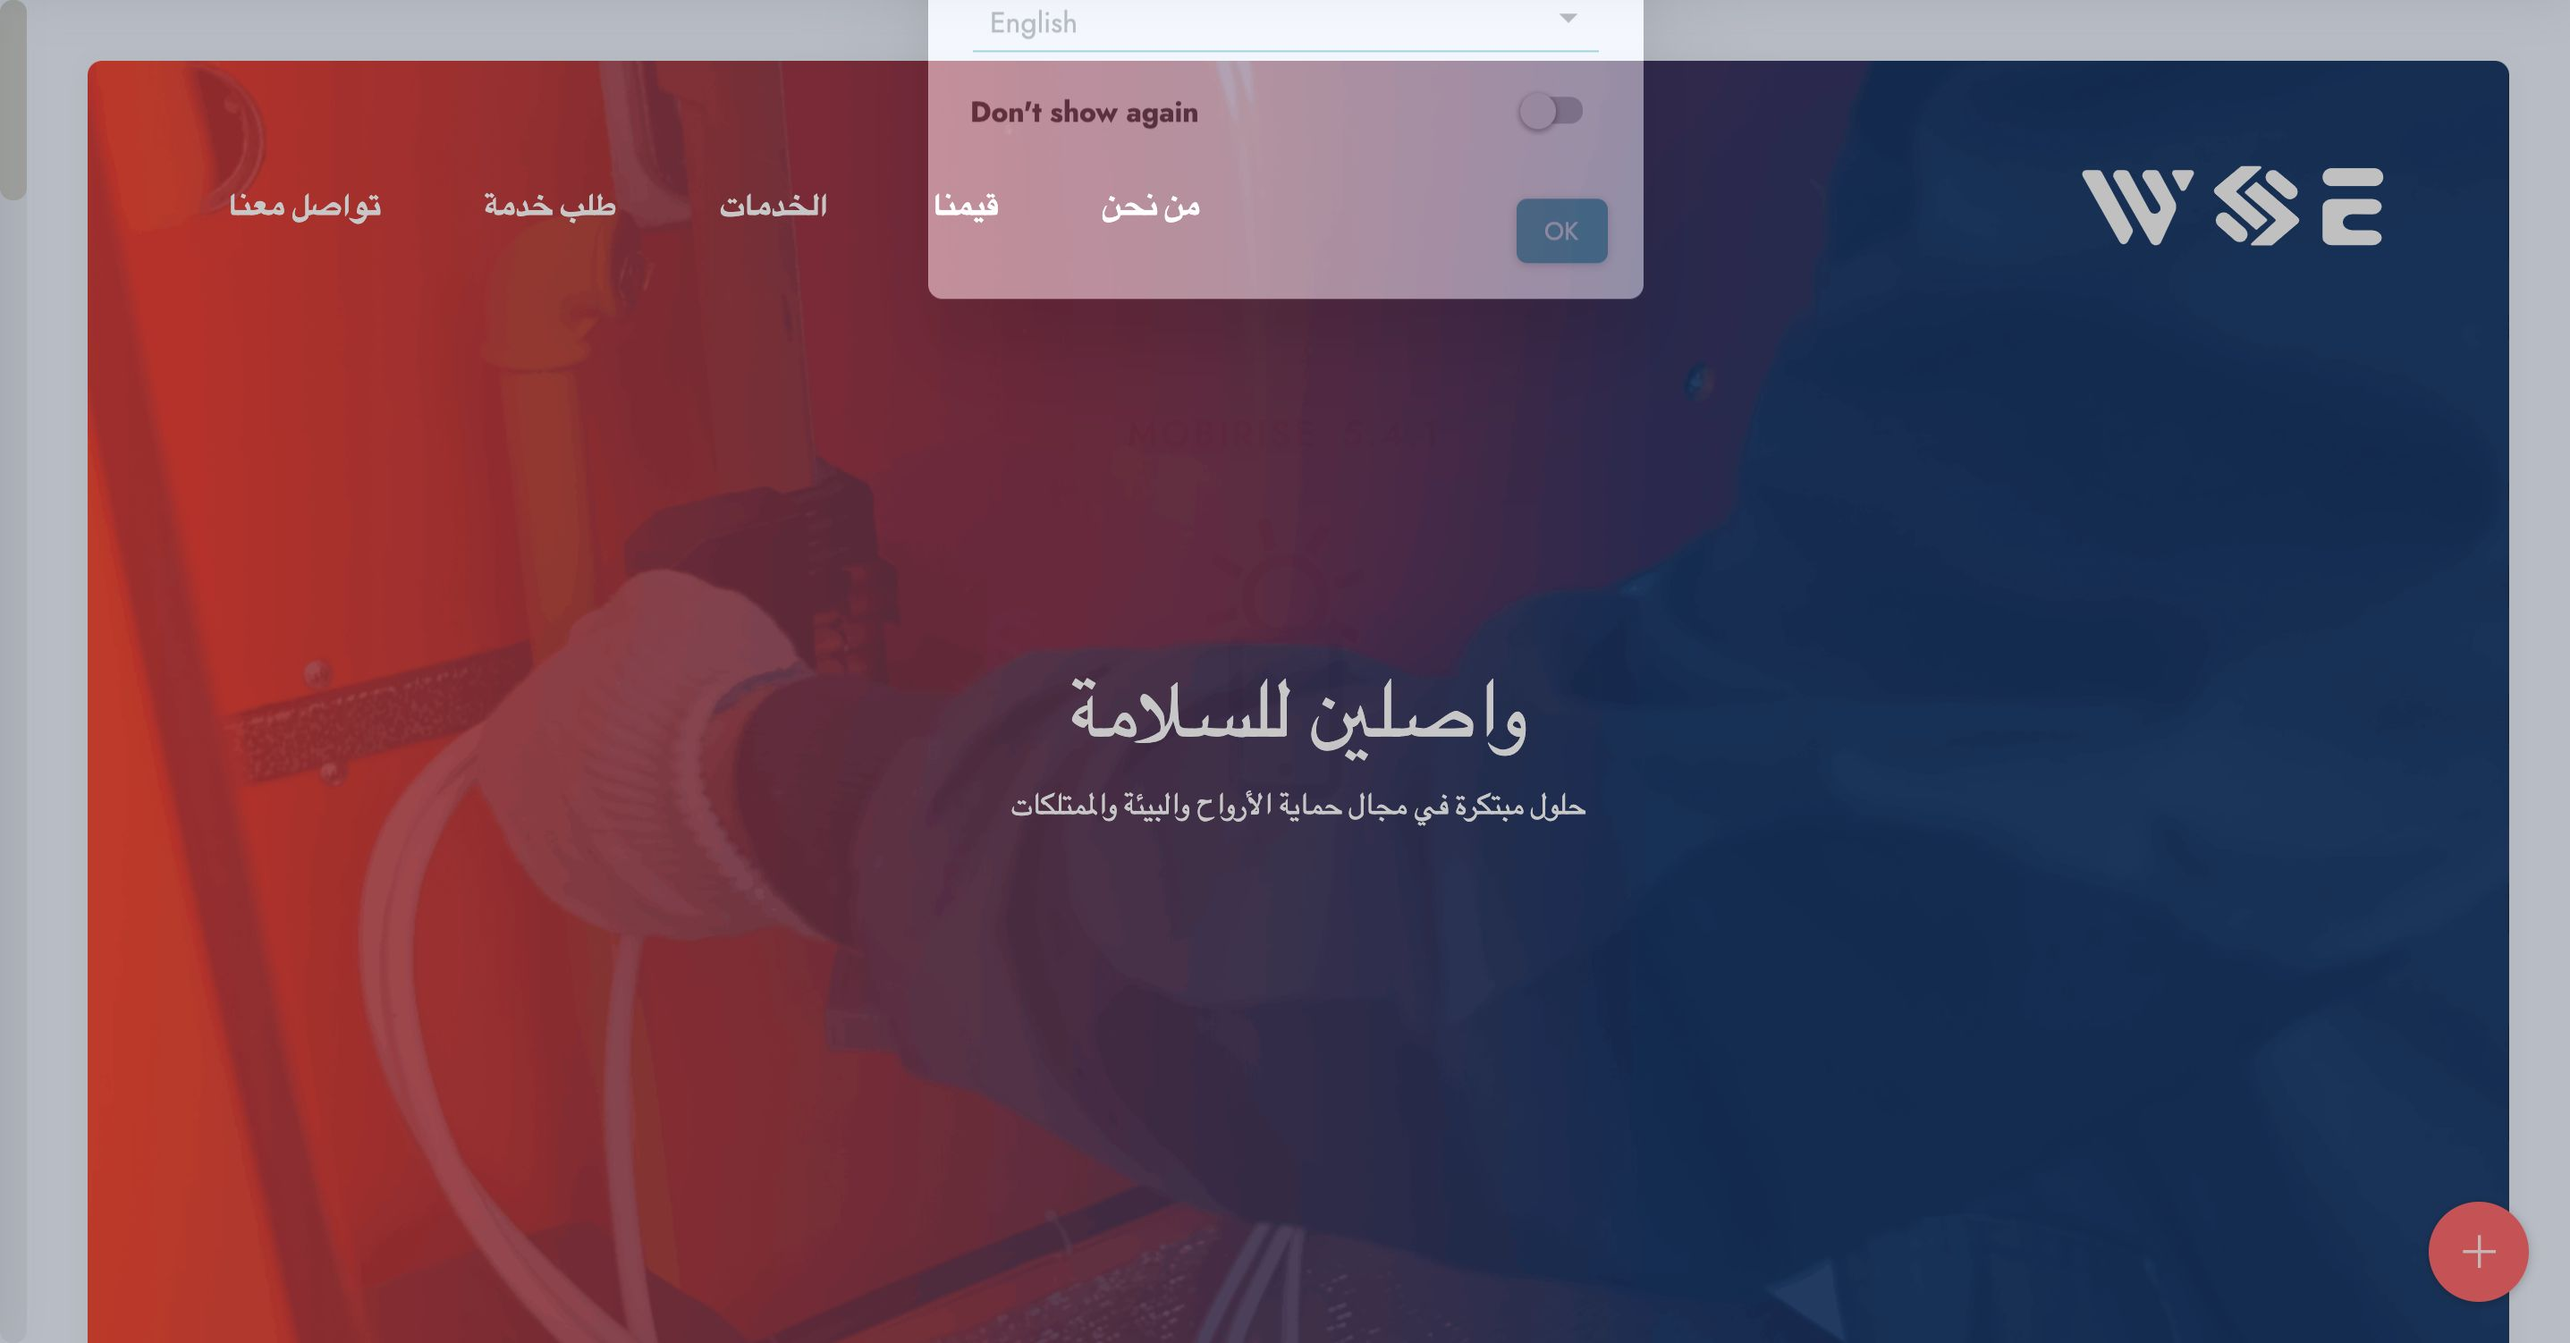
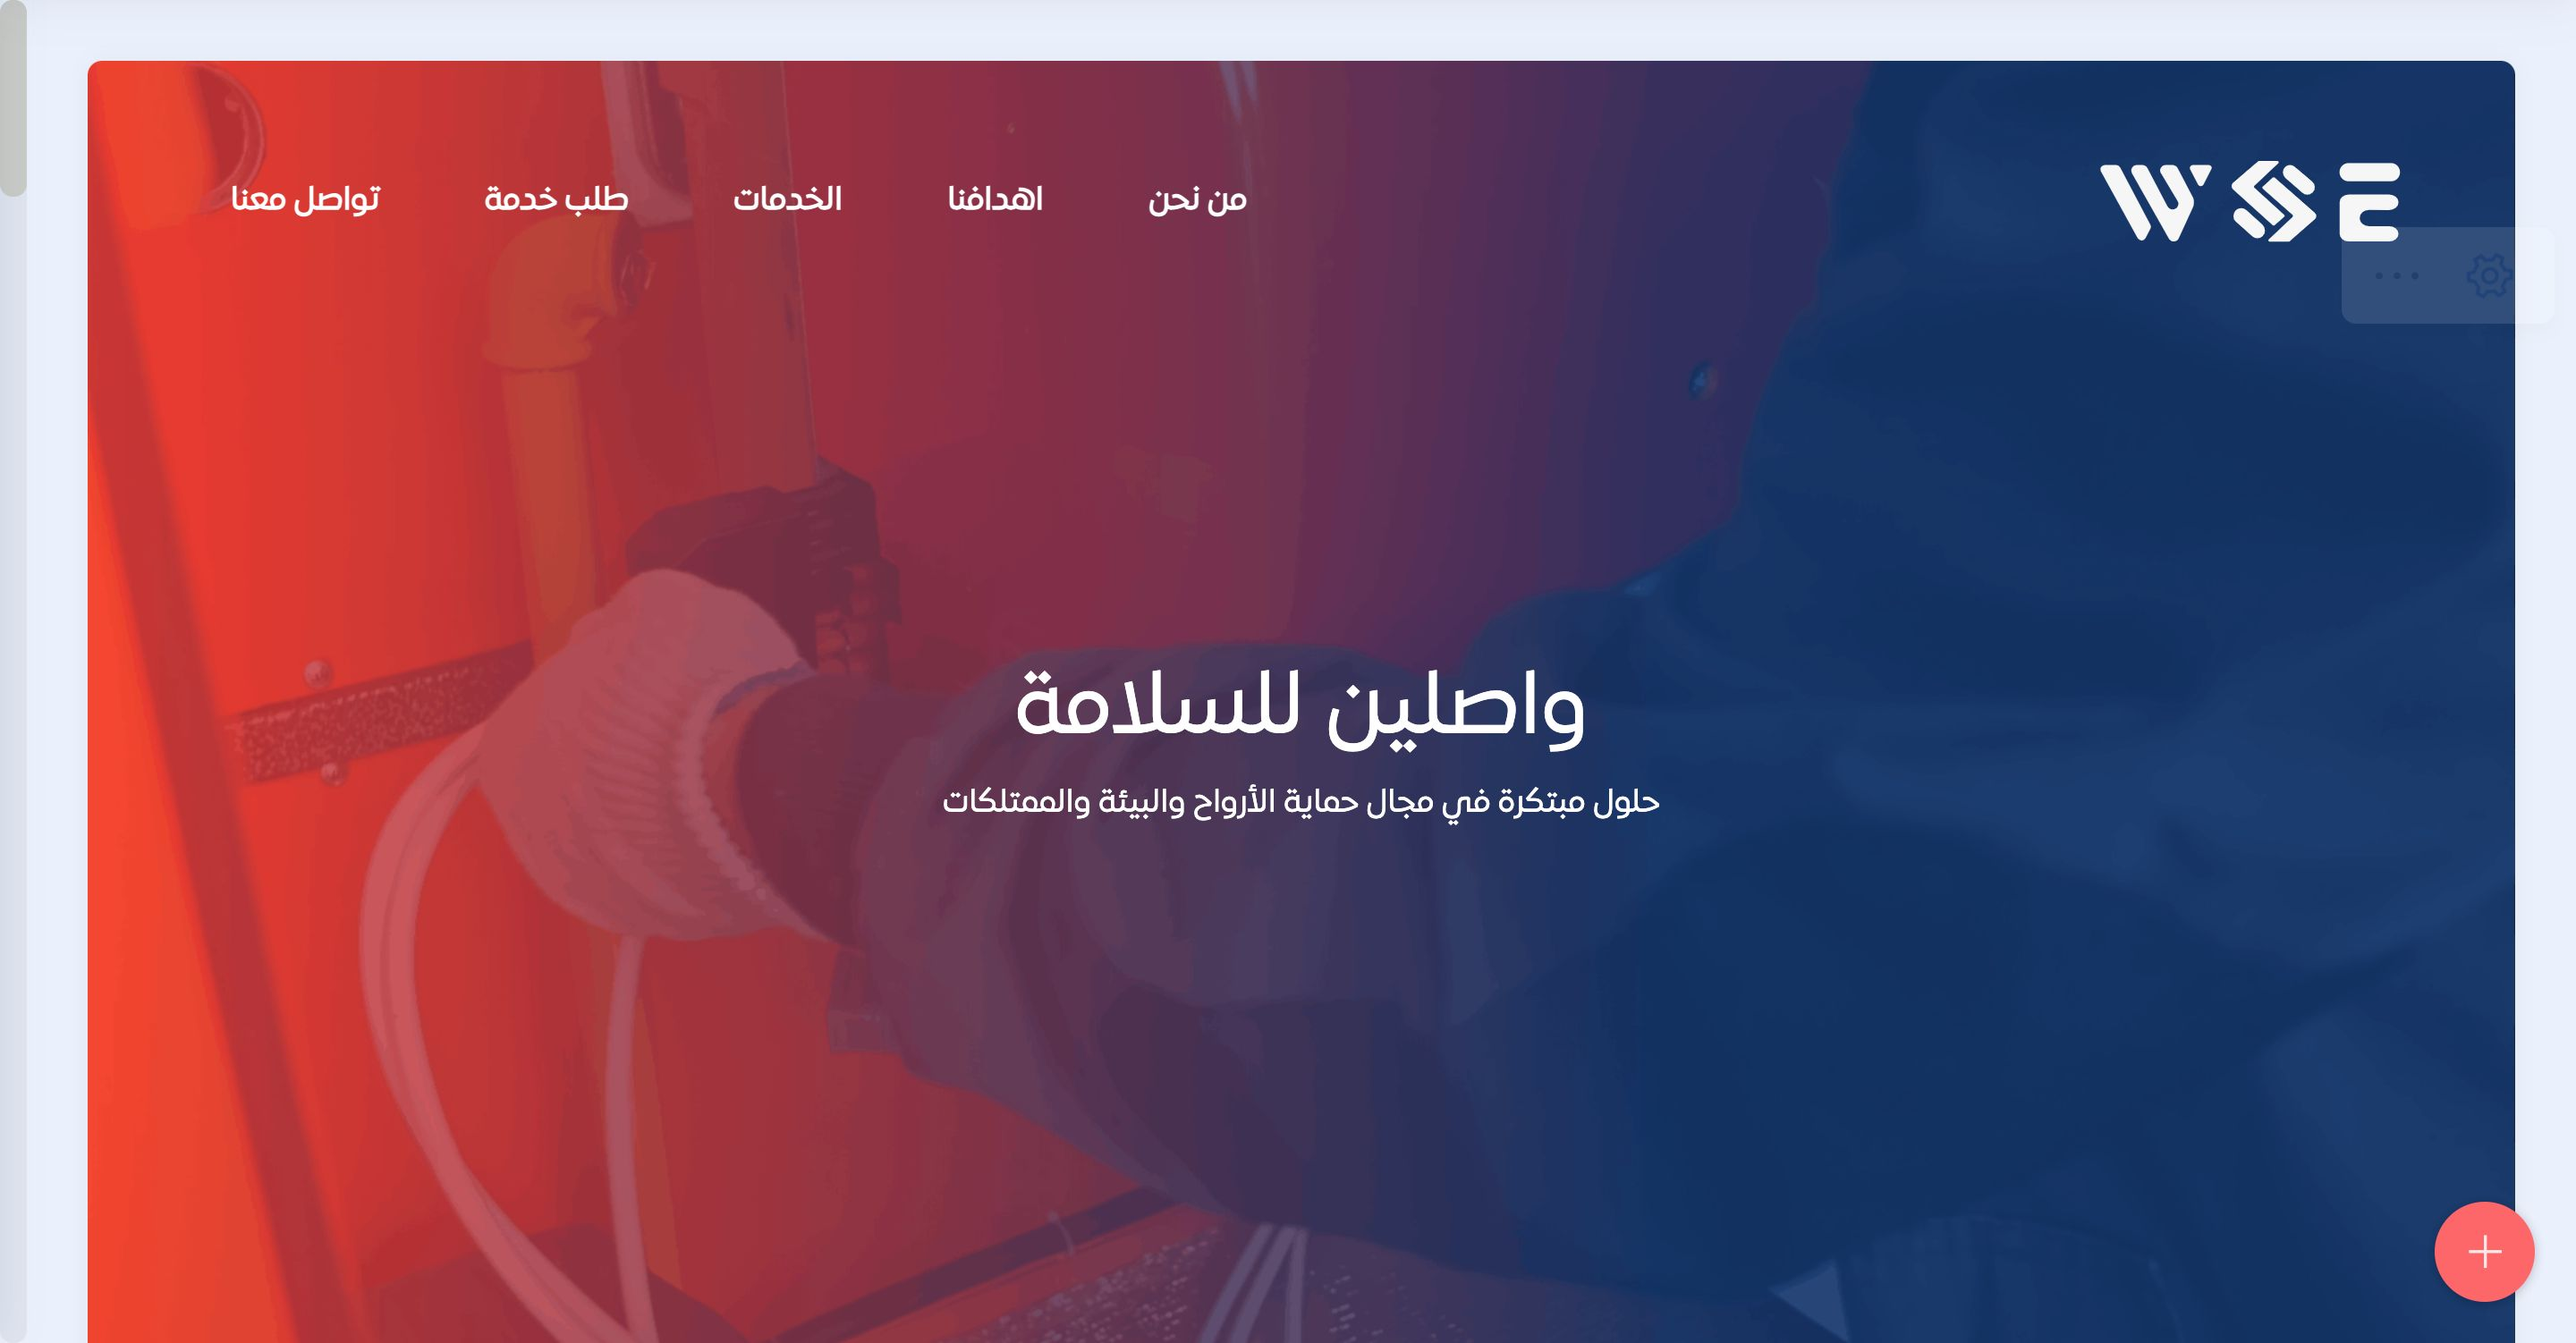
ok

diff --git a/request_service.html b/request_service.html
@@ -30,35 +30,7 @@
 </head>
 <body>
   
-  <section data-bs-version="5.1" class="menu menu1 studiom4_menu1 cid-taTgIDicPZ" once="menu" id="menu1-7f">
-	
-	<nav class="navbar navbar-dropdown navbar-fixed-top navbar-expand-lg">
-		<div class="container">
-			<div class="navbar-brand">
-				<span class="navbar-logo">
-					<a href="index.html">
-						<img src="assets/images/logowhate.svg" alt="" style="height: 3.8rem;">
-					</a>
-				</span>
-				
-			</div>
-			<button class="navbar-toggler" type="button" data-toggle="collapse" data-bs-toggle="collapse" data-target="#navbarSupportedContent" data-bs-target="#navbarSupportedContent" aria-controls="navbarNavAltMarkup" aria-expanded="false" aria-label="Toggle navigation">
-				<div class="hamburger">
-					<span></span>
-					<span></span>
-					<span></span>
-					<span></span>
-				</div>
-			</button>
-			<div class="collapse navbar-collapse" id="navbarSupportedContent">
-				<ul class="navbar-nav nav-dropdown" data-app-modern-menu="true"><li class="nav-item"><a class="nav-link link text-white text-primary display-7" href="index.html#content6-1f">من نحن</a></li><li class="nav-item"><a class="nav-link link text-white text-primary display-7" href="index.html#numbers1-7b">اهدافنا</a></li><li class="nav-item"><a class="nav-link link text-white text-primary display-7" href="index.html#gallery3-7g">الخدمات</a></li><li class="nav-item"><a class="nav-link link text-white text-primary display-7" href="request_service.html">طلب خدمة</a></li><li class="nav-item"><a class="nav-link link text-white text-primary display-7" href="index.html#contact2-7n">تواصل معنا</a></li></ul>
-				
-			</div>
-		</div>
-	</nav>
-</section>
-
-<section data-bs-version="5.1" class="header6 cid-sV358Z5716" id="header6-u">
+  <section data-bs-version="5.1" class="header6 cid-sV358Z5716" id="header6-u">
 
     
 
@@ -94,7 +66,7 @@
                             <div class="line1"></div>
                             <div class="mbr-form top" data-form-type="formoid">
 <!--Formbuilder Form-->
-<form action="https://mobirise.eu/" method="POST" class="mbr-form form-with-styler" data-form-title="Form Name"><input type="hidden" name="email" data-form-email="true" value="IS3UJuJVjd15HWh5R8AmsKQS4S0ucANPBvGMx6VBmTaRrdblcqAtUssMRjnku6uXZfV/n0jI495UUJe3x9Se8U2EGZ7GeaHwirM3opqWQmzDLG9l0TexDtUBrJkztHDU.utd5MBfAJSk7G81jkPiMBGtIF2KjZCmZlKjgphdM3N4DqexJbFmbIQUTkQKPRf/6AWmafAsZ8Yb57gSpfAHenr69L/4xz0hy5VP7LLtLP0Fvpshri1+BcMNFicg8dHt6">
+<form action="https://mobirise.eu/" method="POST" class="mbr-form form-with-styler" data-form-title="Form Name"><input type="hidden" name="email" data-form-email="true" value="TBMnPuX98qTJK2xM/o8tM5FbMqq1AYGhC4VNrXT8LlRKBdHcObvl+wxUyn6wXQxHoWVHW9N36pzg5hxFkMUWd6p+RJPRcnegbwGXf6x2YyrIRCy0yQrYklPjWo8QQTUE.iA5UYYpxZBxYgd+C06vmQrNcj9rySPe7USR3lXb32G/NPyeMZa2ba5sS7FJvV7Yg59/nkS5fnkHk928GZLnL1qebVUhA9V4AG6na6QoKYyLwNq2cBleU7iZbfOA2Rkcu">
 <div class="form-row">
 <div hidden="hidden" data-form-alert="" class="alert alert-success col-12">شكراً سوف يتم التواصل معك</div>
 <div hidden="hidden" data-form-alert-danger="" class="alert alert-danger col-12"> Oops...! some problem!</div>
@@ -154,6 +126,34 @@ function MyF(){ var url = new URL(window.location.href);
             </div>
         </div>
     </div>
+</section>
+
+<section data-bs-version="5.1" class="menu menu1 studiom4_menu1 cid-taTgIDicPZ" once="menu" id="menu1-7f">
+	
+	<nav class="navbar navbar-dropdown navbar-fixed-top navbar-expand-lg">
+		<div class="container">
+			<div class="navbar-brand">
+				<span class="navbar-logo">
+					<a href="index.html">
+						<img src="assets/images/logowhate.svg" alt="" style="height: 3.8rem;">
+					</a>
+				</span>
+				
+			</div>
+			<button class="navbar-toggler" type="button" data-toggle="collapse" data-bs-toggle="collapse" data-target="#navbarSupportedContent" data-bs-target="#navbarSupportedContent" aria-controls="navbarNavAltMarkup" aria-expanded="false" aria-label="Toggle navigation">
+				<div class="hamburger">
+					<span></span>
+					<span></span>
+					<span></span>
+					<span></span>
+				</div>
+			</button>
+			<div class="collapse navbar-collapse" id="navbarSupportedContent">
+				<ul class="navbar-nav nav-dropdown" data-app-modern-menu="true"><li class="nav-item"><a class="nav-link link text-white text-primary display-7" href="index.html#content6-1f">من نحن</a></li><li class="nav-item"><a class="nav-link link text-white text-primary display-7" href="index.html#numbers1-7b">اهدافنا</a></li><li class="nav-item"><a class="nav-link link text-white text-primary display-7" href="index.html#gallery3-7g">الخدمات</a></li><li class="nav-item"><a class="nav-link link text-white text-primary display-7" href="https://wa.me/966556816817">طلب خدمة</a></li><li class="nav-item"><a class="nav-link link text-white text-primary display-7" href="index.html#contact2-7n">تواصل معنا</a></li></ul>
+				
+			</div>
+		</div>
+	</nav>
 </section>
 
 

diff --git a/index.html b/index.html
@@ -53,7 +53,7 @@
 				</div>
 			</button>
 			<div class="collapse navbar-collapse" id="navbarSupportedContent">
-				<ul class="navbar-nav nav-dropdown" data-app-modern-menu="true"><li class="nav-item"><a class="nav-link link text-white text-primary display-7" href="index.html#content6-1f">من نحن</a></li><li class="nav-item"><a class="nav-link link text-white text-primary display-7" href="index.html#numbers1-7b">اهدافنا</a></li><li class="nav-item"><a class="nav-link link text-white text-primary display-7" href="index.html#gallery3-7g">الخدمات</a></li><li class="nav-item"><a class="nav-link link text-white text-primary display-7" href="request_service.html">طلب خدمة</a></li><li class="nav-item"><a class="nav-link link text-white text-primary display-7" href="index.html#contact2-7n">تواصل معنا</a></li></ul>
+				<ul class="navbar-nav nav-dropdown" data-app-modern-menu="true"><li class="nav-item"><a class="nav-link link text-white text-primary display-7" href="index.html#content6-1f">من نحن</a></li><li class="nav-item"><a class="nav-link link text-white text-primary display-7" href="index.html#numbers1-7b">اهدافنا</a></li><li class="nav-item"><a class="nav-link link text-white text-primary display-7" href="index.html#gallery3-7g">الخدمات</a></li><li class="nav-item"><a class="nav-link link text-white text-primary display-7" href="https://wa.me/966556816817">طلب خدمة</a></li><li class="nav-item"><a class="nav-link link text-white text-primary display-7" href="index.html#contact2-7n">تواصل معنا</a></li></ul>
 				
 			</div>
 		</div>
@@ -397,7 +397,7 @@
                             <h6 class="card-title mbr-fonts-style mb-1 display-5">
                                 <strong>&nbsp;واتساب</strong>
                             </h6>
-                            <p class="mbr-text mbr-fonts-style display-7"><a href="https://wa.me/0556816817" class="text-primary">إبداء المحادثة</a></p>
+                            <p class="mbr-text mbr-fonts-style display-7"><a href="https://wa.me/966556816817" class="text-primary">إبداء المحادثة</a></p>
                         </div>
                     </div>
                     <div class="card-wrapper">
@@ -408,7 +408,7 @@
                 </div>
             </div>
             <div class="map-wrapper col-12 col-md-6">
-                <div class="google-map"><iframe frameborder="0" style="border:0" src="https://www.google.com/maps/embed/v1/place?key=AIzaSyCZI5F_k6S1k46ujh0SNrapM89f7mJxd30&amp;q=26.2838822,50.1958937" allowfullscreen=""></iframe></div>
+                <div class="google-map"><iframe frameborder="0" style="border:0" src="https://www.google.com/maps/embed/v1/place?key=AIzaSyDk89J4FSunMF33ruMVWJaJht_Ro0kvoXs&amp;q=26.2838822,50.1958937" allowfullscreen=""></iframe></div>
             </div>
         </div>
     </div>
